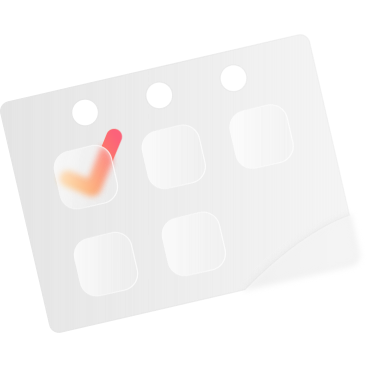
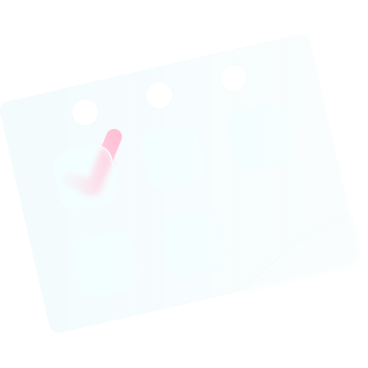
changed styling on grid-items

Changed region(s): [[0.1495, 0.3288, 0.3587, 0.5679], [0.0, 0.269, 0.0299, 0.4185]]

diff --git a/src/Services.css b/src/Services.css
@@ -1,25 +1,18 @@
-.services {
-  background: var(--dark-color);
-  box-sizing: border-box;
-}
-
 .services h3 {
-  color: var(--background-color);
-  font-size: 40px;
+  font-size: 35px;
   font-weight: 700;
   letter-spacing: -1.5px;
   line-height: 40px;
-  padding: 50px 50px 0 50px;   
+  padding: 75px 75px 0 75px;   
   margin: 0; 
 }
   
 .services .description {
-  color: var(--background-color);
   font-size: 18px;
-  font-weight: 200;
+  font-weight: 300;
   letter-spacing: 0.25px;
   line-height: 22px;
-  padding: 15px 80px 50px 80px;
+  padding: 15px 75px 50px 75px;
   margin: 0;
 }
   
@@ -31,32 +24,13 @@
   margin: 0 20px;
   padding-bottom: 50px;
 }
-  
-.services .grid-item {
-  border-radius: 25px;
-  height: 587px;
-  min-width: 300px;
-  padding: 50px 20px 0 20px;
-}
 
-.services .analysis {
-  background: #ffd678;
-}
-
-.services .evaluation {
-  background: #ffb2d6;
-}
-
-.services .support {
-  background: #D0CFF7;
-}
-  
 .services img {
   align-items: center;
   height: 115px;
   margin-bottom: 20px;
 }
-  
+
 .services h4 {
   font-size: 40px;
   font-weight: 700;
@@ -67,8 +41,8 @@
   
 .services ul {
   display: grid;
-  grid-gap: 5px;
-  grid-row-gap: 5px;
+  grid-gap: 10px;
+  grid-row-gap: 10px;
   grid-template-columns: 1fr 1fr;
   list-style: none;
   padding: 0;
@@ -76,9 +50,10 @@
 
 /* Manual Colour Change */
 .services button {
-  background: rgba(255, 253, 241, 0.25);
+  background: rgba(242, 177, 241, 0.1);
   border: none;
   border-radius: 25px;
+  box-shadow:  inset 0 0 25px rgba(242, 177, 241, 0.25);
   color: var(--dark-color);
   font-size: 15px;
   font-weight: 300;
@@ -90,17 +65,23 @@
 
 /* Manual Colour Change */
 .services button:hover {
-  background: rgba(255, 253, 241, 0.5);
+  background: rgba(242, 177, 241, 0.2);
+  box-shadow:  inset 0 0 25px rgba(242, 177, 241, 0.35);
+  transform: scale(1.025);
 }
 
 .services .active {
-  background: var(--dark-color);
+  background: rgba(73, 73, 73, 1);
   color: var(--background-color);
+  transform: scale(1.025);
+
 } 
+
 
 /* Manual Colour Change */
 .services .active:hover {
   background: rgba(73, 73, 73, 0.75);
+  box-shadow: none;
 }
 
 .services .option {
@@ -131,6 +112,21 @@
 
 .option.fade-out {
   opacity: 0;
+}
+
+.services .text-container {
+  position: relative;
+}
+
+.services .grid-item {
+  background: rgba(255, 253, 240, 0.2);
+  backdrop-filter: blur(0.25px);
+  border-radius: 25px;
+  box-shadow:  inset 0 0 150px rgba(242, 177, 241, 0.35), var(--box-shadow);
+  height: 587px;
+  min-width: 300px;
+  overflow: hidden;
+  padding: 50px 20px 0 20px;
 }
 
 @media (max-width: 1398px) {

diff --git a/src/Services.js b/src/Services.js
@@ -1,4 +1,4 @@
-import React, { useState, useEffect } from "react";
+import React, { useEffect, useState } from "react";
 import analysisImg from "./img/analysis.png";
 import evaluationImg from "./img/evaluation.png";
 import supportImg from "./img/support.png";
@@ -121,7 +121,7 @@ function Services() {
         <div className="services">
           <div className="grid">
             <div className="analysis grid-item text-center">
-              <div className="option-list">
+            <div className="text-container">
                 <img src={analysisImg} alt="" />
                 <h4>Analysis</h4>
                 <ul>
@@ -136,11 +136,11 @@ function Services() {
                     </li>
                   ))}
                 </ul>
-              </div>
               {renderContent(activeContent.analysis, fade.type === "analysis" ? "fade-out" : "fade-in")}
             </div>
+            </div>
             <div className="evaluation grid-item text-center">
-              <div className="option-list">
+              <div className="text-container">
                 <img src={evaluationImg} alt="" />
                 <h4>Evaluation</h4>
                 <ul>
@@ -155,11 +155,11 @@ function Services() {
                     </li>
                   ))}
                 </ul>
-              </div>
               {renderContent(activeContent.evaluation, fade.type === "evaluation" ? "fade-out" : "fade-in")}
             </div>
+            </div>
             <div className="support grid-item text-center">
-              <div className="option-list">
+              <div className="text-container">
                 <img src={supportImg} alt="" />
                 <h4>Support</h4>
                 <ul>
@@ -174,8 +174,8 @@ function Services() {
                     </li>
                   ))}
                 </ul>
-              </div>
               {renderContent(activeContent.support, fade.type === "support" ? "fade-out" : "fade-in")}
+              </div>
             </div>
           </div>
         </div>

diff --git a/src/Equipment.css b/src/Equipment.css
@@ -1,20 +1,33 @@
 .equipment {
-  box-sizing: border-box;
-  overflow: hidden;
+overflow: hidden;
+background: rgba(255, 253, 240, 0.2);
+  backdrop-filter: blur(0.25px);
+  border-radius: 25px;
+  box-shadow:  inset 0 0 150px rgba(242, 177, 241, 0.35);
+  margin: 75px 20px;
 }
   
 .equipment .row {
-  gap: 5px;
+  gap: 10px;
+  row-gap: 10px;
   margin: 0;
   padding: 50px 40px 0 40px;
 }
+
+/* Manual Colour Change */
+.services .active:hover {
+  background: rgba(242, 177, 241, 0.3);
+  box-shadow:  inset 0 0 25px rgba(179, 60, 159, 0.15);
+}
+
   
 /* Manual Colour Change */
 .equipment button {
-  background: rgba(73, 73, 73, 0.25);
+  background: rgba(242, 177, 241, 0.1);
   border: none;
   border-radius: 25px;
-  color: var(--background-color);
+  box-shadow:  inset 0 0 25px rgba(242, 177, 241, 0.25);
+  color: var(--dark-color);
   font-size: 15px;
   font-weight: 300;
   height: 50px;
@@ -25,17 +38,29 @@
 
 /* Manual Colour Change */
 .equipment button:hover {
-  background: rgba(73, 73, 73, 0.5);
+  background: rgba(242, 177, 241, 0.2);
+  box-shadow:  inset 0 0 25px rgba(242, 177, 241, 0.35);
 }
-  
+
+
+/* Manual Colour Change */
+.services .active:hover {
+  background: rgba(73, 73, 73, 0.75);
+  box-shadow: none;
+  transform: scale(1.025);
+}
+
 /* Manual Colour Change */
 .equipment .active {
   background: rgba(73, 73, 73, 1);
+  color: var(--background-color);
+  transform: scale(1.025);
 }
 
 /* Manual Colour Change */
 .equipment .active:hover {
   background: rgba(73, 73, 73, 0.75);
+  box-shadow:  none;
 }
   
 .equipment-1, .equipment-2, .equipment-3, .equipment-4, .equipment-5 {

diff --git a/src/About.css b/src/About.css
@@ -17,13 +17,31 @@
   font-weight: 300;
   letter-spacing: 0.25px;
   line-height: 22px;
-  padding: 15px 40px 0 20px;
+  padding-top: 15px;
 } 
 
 .about .grid {
   align-items: center;
   display: grid;
+  grid-gap: 20px;
+  grid-row-gap: 20px;
   grid-template-columns: 2fr 1fr;
+}
+
+.about .grid-item-1 {
+  background: rgba(255, 253, 240, 0.2);
+  backdrop-filter: blur(0.25px);
+  border-radius: 25px;
+  box-shadow:  inset 0 0 150px rgba(242, 177, 241, 0.35);
+  padding: 50px 20px;
+}
+
+.about .grid-item-2 {
+  background: rgba(255, 253, 240, 0.2);
+  backdrop-filter: blur(0.25px);
+  border-radius: 25px;
+  box-shadow:  inset 0 0 150px rgba(242, 177, 241, 0.35);
+  padding: 50px 20px;
 }
   
 .about .grid-item-2 h4 {

diff --git a/src/Navbar.css b/src/Navbar.css
@@ -64,9 +64,10 @@ nav .nav-link:hover {
 
 /* Manual Colour Change */
 nav .offcanvas-menu {
-  align-items: flex-start;
-  background: rgba(255, 253, 241, 0.5);
-  backdrop-filter: blur(10px);
+ align-items: flex-start;
+  background: rgba(255, 253, 240, 0.4);
+  backdrop-filter: blur(5px);
+  box-shadow:  inset 0 0 150px rgba(242, 177, 241, 0.65);
   display: flex;
   justify-content: space-between;
   padding: 35px 20px;

diff --git a/src/Home.css b/src/Home.css
@@ -3,7 +3,7 @@ main {
   display: flex;
   justify-content: center;
   overflow: hidden;
-  padding: 150px 0 210px 0;
+  padding: 150px 0 172px 0;
 }
 
 main h1 {
